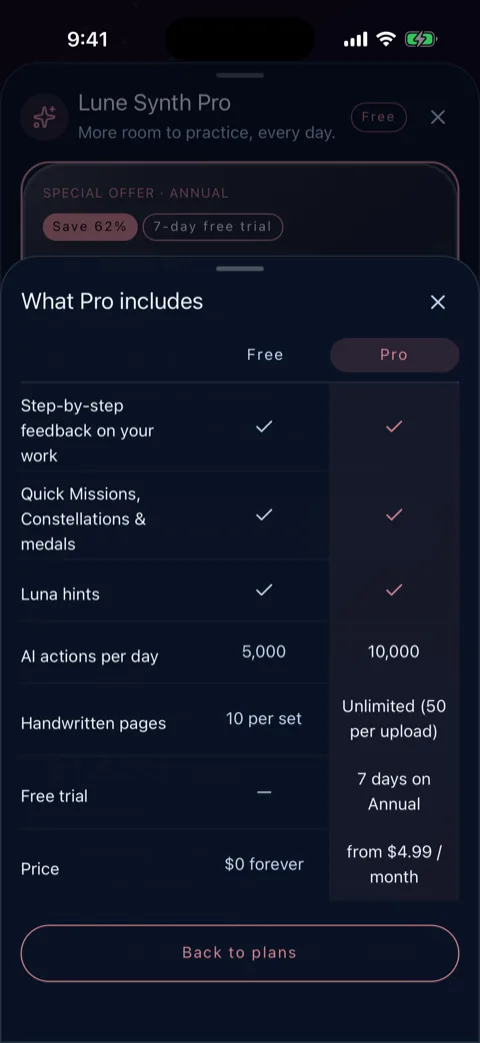
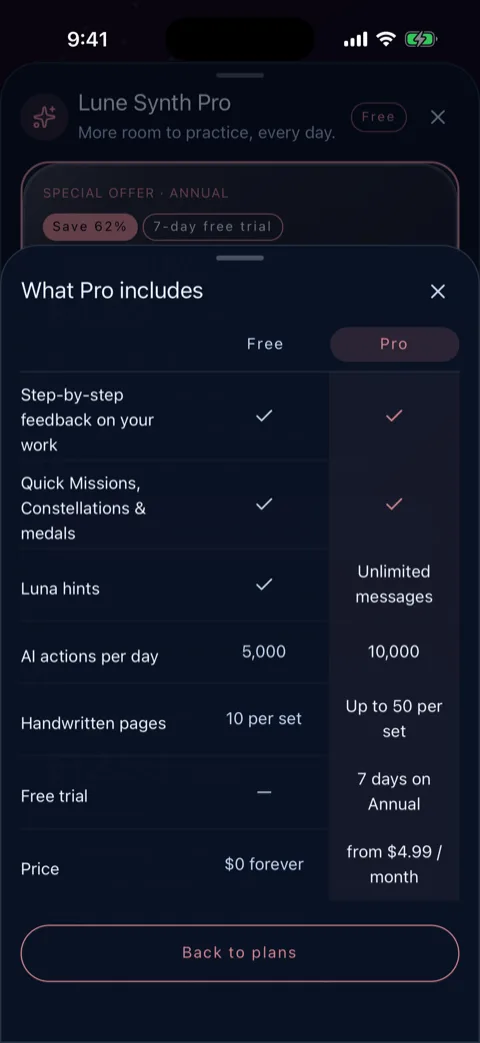
fix(website): match the in-app Pro copy and unify the compare-sheet chassis
The in-app Pro paywall copy changed on main (handwritten pages: "Unlimited
(50 per upload)" -> "Up to 50 per set", a technical-safety-ceiling framing
the app's own handwritingPageCap.core.ts comment requires; Luna hints: a
plain checkmark -> "Unlimited messages" next to the AI-actions bullet so it
never reads as unbounded). Brings pro/index.html and the homepage pricing
card back in line everywhere that line appeared (benefit card, both plan
bullet lists, the comparison-sheet screenshot's alt text and the homepage's
Pro Monthly card), reorders the benefit grid so "Unlimited Luna tutor
messages" sits next to "AI actions a day" (matching the app's own bullet
order and intent), and recaptures the "What Pro includes" screenshot
(pro-paywall-compare DEV variant) from the current app so it shows the same
numbers the page now states.

Also gives every added screenshot the hero's own phone chassis
(phone-mock__frame/phone-mock__screen/phone-shell-buttons, sized by
phone-mock-fluid.css's container query -- origin/main's new pattern for
gallery and secondary captures) instead of a bespoke rounded-border frame:
the Pro page's comparison-sheet capture is the only one that needed it, since
every persona-page capture already sits inside the page's own hero
phone-mock figure. Pro's page now also loads landing.css (chassis styles
live there) and phone-mock-fluid.css.

Verified: full node --test suite still 59/64 passing (pre-existing baseline,
[…]

diff --git a/lune-synth/pro/index.html b/lune-synth/pro/index.html
@@ -30,6 +30,8 @@
   <link rel="stylesheet" href="/campaign/site-footer.css?v=5" />
   <script src="/campaign/site-footer.js?v=9" data-lune-site-footer defer></script>
   <script src="/campaign/nav-scroll.js?v=1" defer></script>
+  <link rel="stylesheet" href="/campaign/landing.css?v=8" />
+  <link rel="stylesheet" href="/campaign/phone-mock-fluid.css?v=1" />
   <link rel="stylesheet" href="/campaign/pro.css?v=2" />
   <script src="/campaign/pro.js?v=1" defer></script>
   <script type="application/ld+json">
@@ -161,13 +163,13 @@
           <div class="pro-benefit__icon"><svg class="pro-icon" viewBox="0 0 24 24" fill="none" stroke="currentColor" stroke-width="1.8" stroke-linecap="round" stroke-linejoin="round" aria-hidden="true"><path d="m12 3 2.4 6.6L21 12l-6.6 2.4L12 21l-2.4-6.6L3 12l6.6-2.4L12 3Z"/><path d="M20 2v4M18 4h4"/></svg></div><h3>More room to explore</h3>
           <p class="pro-benefit__stat">10,000<span>AI actions a day</span></p><p>Generate practice, submit your work, and ask for help. Twice the current Free plan’s daily allowance.</p>
         </article>
-        <article class="pro-benefit pro-card pro-card--clay" data-pro-reveal>
-          <div class="pro-benefit__icon"><svg class="pro-icon" viewBox="0 0 24 24" fill="none" stroke="currentColor" stroke-width="1.8" stroke-linecap="round" stroke-linejoin="round" aria-hidden="true"><path d="M7 3h10l3 3v15H4V3h3Zm10 0v4h3M8 11h8M8 15h6"/></svg></div><h3>Bring the whole page</h3>
-          <p class="pro-benefit__stat">Unlimited<span>handwritten pages, 50 per upload</span></p><p>Pro removes the plan’s handwriting-page quota. One upload holds up to 50 pages, and a set can take more than one upload; Free is capped at 10 pages per set.</p>
-        </article>
         <article class="pro-benefit pro-card pro-card--sage" data-pro-reveal>
           <div class="pro-benefit__icon"><svg class="pro-icon" viewBox="0 0 24 24" fill="none" stroke="currentColor" stroke-width="1.8" stroke-linecap="round" stroke-linejoin="round" aria-hidden="true"><path d="M4 4h16v12H9l-5 4V4Z"/><path d="M8 8h8M8 12h5"/></svg></div><h3>Keep talking with Luna</h3>
-          <p class="pro-benefit__stat">Luna<span>unlimited tutor messages</span></p><p>Ask for a hint, unpack a concept, or talk through your reasoning. No separate tutor-message cap.</p>
+          <p class="pro-benefit__stat">Luna<span>unlimited tutor messages</span></p><p>Ask for a hint, unpack a concept, or talk through your reasoning, inside your day’s AI actions. No separate tutor-message cap.</p>
+        </article>
+        <article class="pro-benefit pro-card pro-card--clay" data-pro-reveal>
+          <div class="pro-benefit__icon"><svg class="pro-icon" viewBox="0 0 24 24" fill="none" stroke="currentColor" stroke-width="1.8" stroke-linecap="round" stroke-linejoin="round" aria-hidden="true"><path d="M7 3h10l3 3v15H4V3h3Zm10 0v4h3M8 11h8M8 15h6"/></svg></div><h3>Bring the whole page</h3>
+          <p class="pro-benefit__stat">50<span>handwritten pages per set</span></p><p>Pro raises the plan’s handwriting-page quota to 50 pages per set; Free supports 10.</p>
         </article>
         <article class="pro-benefit pro-card pro-card--dusk" data-pro-reveal>
           <div class="pro-benefit__icon"><svg class="pro-icon" viewBox="0 0 24 24" fill="none" stroke="currentColor" stroke-width="1.8" stroke-linecap="round" stroke-linejoin="round" aria-hidden="true"><path d="M12 2 4 7v10l8 5 8-5V7Z"/><path d="M4 7l8 5 8-5M12 12v10"/></svg></div><h3>Bigger set rewards</h3>
@@ -176,10 +178,22 @@
       </div>
       <p class="pro-equality" data-pro-reveal><svg class="pro-icon" viewBox="0 0 24 24" fill="none" stroke="currentColor" stroke-width="1.8" stroke-linecap="round" stroke-linejoin="round" aria-hidden="true"><path d="m5 12 4 4L19 6"/></svg> Same grading system. Every plan.<span>Pro adds capacity; grading quality is never a paid upgrade.</span></p>
       <figure class="pro-screenshot" data-pro-reveal>
-        <picture>
-          <source media="(min-width: 900px)" srcset="/mobile-app-assets/screenshots/applied/question-prompts/pro-compare.webp" />
-          <img src="/mobile-app-assets/screenshots/applied/question-prompts/pro-compare-mid.webp" alt="The in-app Pro comparison sheet, showing Free vs Pro side by side: 5,000 vs 10,000 AI actions a day, 10 handwritten pages per set vs unlimited (50 per upload), no free trial vs 7 days on Annual, and price from $4.99 a month" width="480" height="1043" loading="lazy" decoding="async" />
-        </picture>
+        <div class="phone-mock-fluid">
+        <div class="phone-mock__frame">
+          <div class="phone-mock__screen">
+            <img src="/mobile-app-assets/screenshots/applied/question-prompts/pro-compare-mid.webp" srcset="/mobile-app-assets/screenshots/applied/question-prompts/pro-compare-mid.webp 480w, /mobile-app-assets/screenshots/applied/question-prompts/pro-compare.webp 1206w" sizes="(min-width: 900px) 300px, (min-width: 521px) 45vw, 290px" alt="The in-app Pro comparison sheet, showing Free vs Pro side by side: Luna hints vs unlimited Luna messages, 5,000 vs 10,000 AI actions a day, 10 vs up to 50 handwritten pages per set, no free trial vs 7 days on Annual, and price from $4.99 a month" width="480" height="1043" loading="lazy" decoding="async" />
+          </div>
+          <div class="phone-shell-buttons" aria-hidden="true">
+            <span class="phone-shell-buttons__rail phone-shell-buttons__rail--left">
+              <span class="phone-shell-button phone-shell-button--volume"></span>
+              <span class="phone-shell-button phone-shell-button--volume phone-shell-button--volume-secondary"></span>
+            </span>
+            <span class="phone-shell-buttons__rail phone-shell-buttons__rail--right">
+              <span class="phone-shell-button phone-shell-button--power"></span>
+            </span>
+          </div>
+        </div>
+        </div>
         <figcaption>What Pro includes, from the app itself</figcaption>
       </figure>
     </section>
@@ -196,12 +210,12 @@
           <div class="pro-plan__recommendation">For a year of curiosity <span>Save 62%*</span></div>
           <p class="pro-eyebrow">Special Offer · Annual</p><h3 id="annual-title">Lune Synth Pro<br />Special Offer</h3><p class="pro-price">$4.99<span>/ month</span></p><p class="pro-plan__description"><strong>Billed annually</strong> · $59.88 per year.</p>
           <div class="pro-trial-pill">7 days free for eligible accounts</div>
-          <ul><li>Everything in Free</li><li>2× Free&#39;s Moon Rock and EXP set rewards</li><li>10,000 AI actions a day</li><li>Unlimited handwritten pages (50 per upload)</li><li>Unlimited Luna tutor messages</li><li>Same Pro features as monthly</li></ul>
+          <ul><li>Everything in Free</li><li>2× Free&#39;s Moon Rock and EXP set rewards</li><li>Unlimited Luna tutor messages</li><li>10,000 AI actions a day</li><li>Up to 50 handwritten pages per set</li><li>Same Pro features as monthly</li></ul>
           <a class="pro-button pro-button--primary" href="/#waitlist">Hear when Pro launches <span aria-hidden="true">↗</span></a><p class="pro-plan__footnote">Coming soon · Joining starts no trial.</p>
         </article>
         <article class="pro-plan pro-plan--monthly pro-card" data-pro-reveal aria-labelledby="monthly-title">
           <p class="pro-eyebrow">Pro · Monthly</p><h3 id="monthly-title">Keep it flexible.</h3><p class="pro-price">$12.99<span>/ month</span></p><p class="pro-plan__description">More room to learn, one month at a time.</p>
-          <ul><li>Everything in Free</li><li>2× Free&#39;s Moon Rock and EXP set rewards</li><li>10,000 AI actions a day</li><li>Unlimited handwritten pages (50 per upload)</li><li>Unlimited Luna tutor messages</li><li>Cancel future renewals anytime</li></ul>
+          <ul><li>Everything in Free</li><li>2× Free&#39;s Moon Rock and EXP set rewards</li><li>Unlimited Luna tutor messages</li><li>10,000 AI actions a day</li><li>Up to 50 handwritten pages per set</li><li>Cancel future renewals anytime</li></ul>
           <a class="pro-button pro-button--quiet" href="/#waitlist">Hear when Pro launches <span aria-hidden="true">→</span></a><p class="pro-plan__footnote">Coming soon · No monthly trial.</p>
         </article>
       </div>

diff --git a/lune-synth/campaign/pro.css b/lune-synth/campaign/pro.css
@@ -112,7 +112,6 @@
 .pro-equality .pro-icon { width: 19px; height: 19px; color: #b2c4a5; }
 .pro-equality span { color: var(--muted); }
 .pro-screenshot { max-width: 300px; margin: 48px auto 0; text-align: center; }
-.pro-screenshot picture, .pro-screenshot img { display: block; width: 100%; height: auto; border-radius: 19px; border: 1px solid #d5caa724; box-shadow: 0 16px 40px #0003; }
 .pro-screenshot figcaption { margin-top: 14px; font-size: 12px; color: var(--muted); }
 .pro-plan { display: flex; flex-direction: column; padding: 32px 27px 25px; gap: 0; }
 .pro-plan--free { --tone: 166, 200, 241; background: #122039; }

diff --git a/lune-synth/index.html b/lune-synth/index.html
@@ -14440,7 +14440,7 @@
             <ul class="pricing-card__features">
               <li>Everything in Free</li>
               <li><strong>10,000 AI actions / day</strong></li>
-              <li>Unlimited handwritten pages <span>(50 per upload)</span></li>
+              <li>Up to 50 handwritten pages <span>/ set</span></li>
             </ul>
             <a class="pricing-card__cta" href="/pro/">See what Pro includes</a>
           </article>
